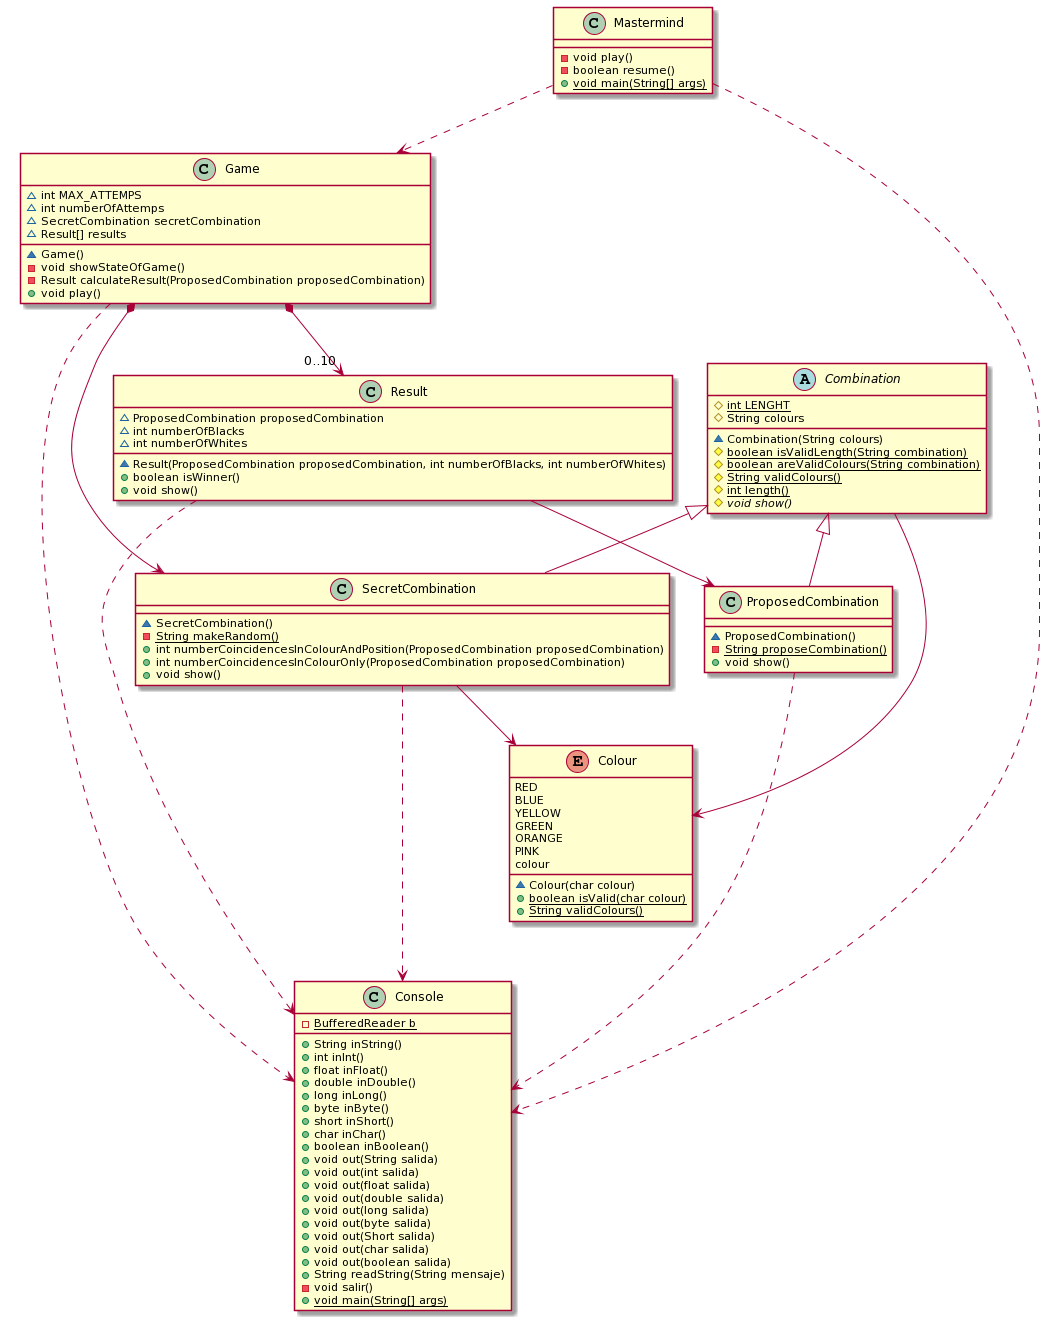
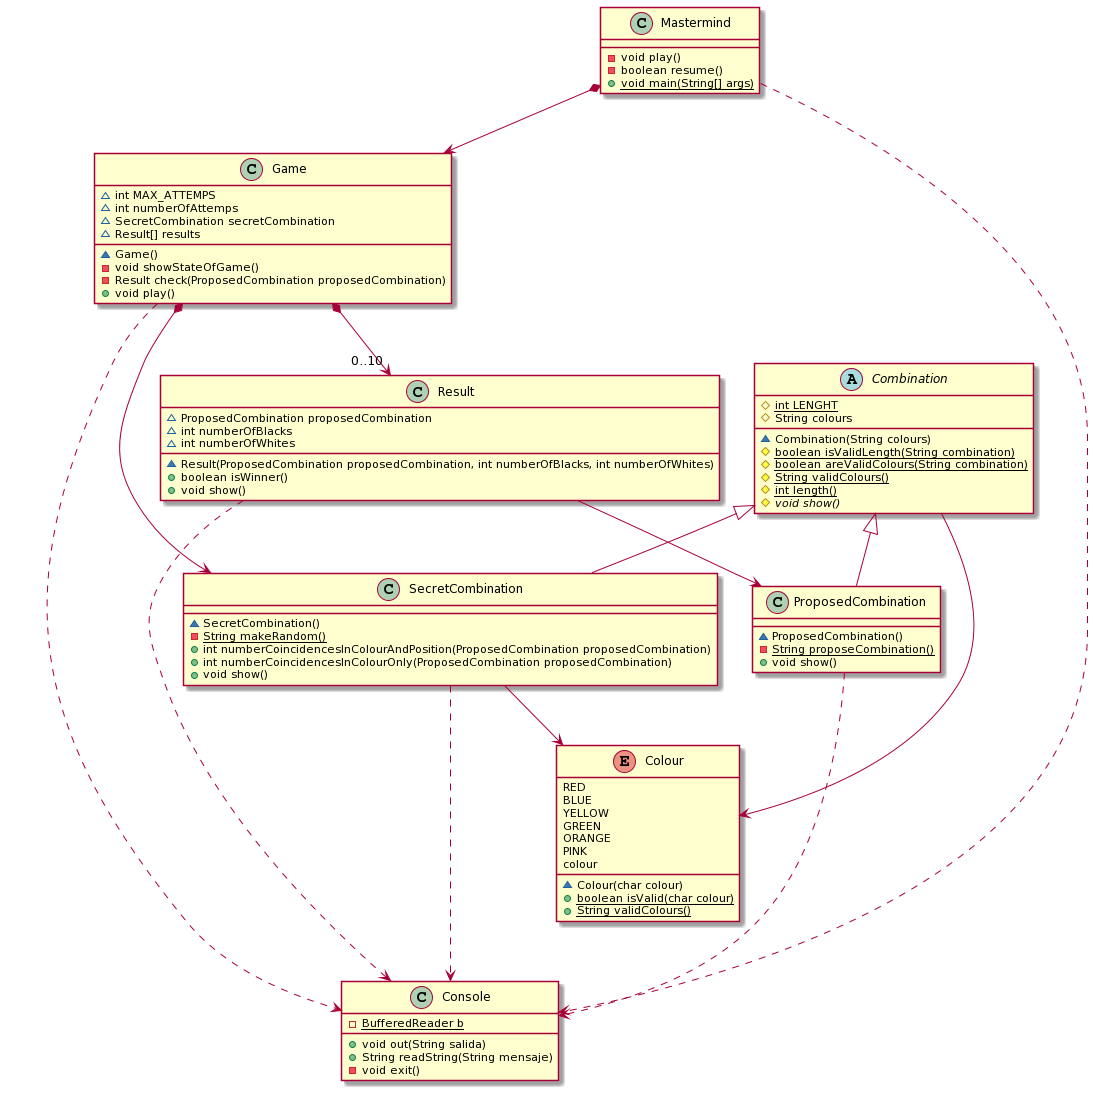
Add files via upload

diff --git a/mastermind-herencia/Game.java b/mastermind-herencia/Game.java
@@ -22,7 +22,7 @@ class Game {
 		}
 	}
 	
-	private Result calculateResult(ProposedCombination proposedCombination) {
+	private Result check(ProposedCombination proposedCombination) {
 		int numberOfBlacks=secretCombination.numberCoincidencesInColourAndPosition(proposedCombination);
 		int numberOfWhites=secretCombination.numberCoincidencesInColourOnly(proposedCombination);
 		return new Result(proposedCombination,numberOfBlacks,numberOfWhites);
@@ -34,7 +34,7 @@ class Game {
 		do {
 			this.showStateOfGame();
 			ProposedCombination proposedCombination=new ProposedCombination();
-			Result result=this.calculateResult(proposedCombination);
+			Result result=this.check(proposedCombination);
 			isWinner=result.isWinner();
 			results[numberOfAttemps]=result;
 			this.numberOfAttemps++;

diff --git a/mastermind-herencia/Colour.java b/mastermind-herencia/Colour.java
@@ -14,12 +14,10 @@ public enum Colour {
 		this.colour=colour;
 	}
 	
-	public static boolean isValid(char colour) {
-		
+	public static boolean isValid(char colour) {		
 		for (Colour c : Colour.values()) {
 			if (c.colour == colour) return true;
-		}
-		
+		}		
 		return false;
 	}
 	
@@ -28,9 +26,7 @@ public enum Colour {
 		for (Colour c : Colour.values()) {
 			validColours+=c.colour;
 		}
-		return validColours;
-		
+		return validColours;		
 	}
-
 }
 	   				

diff --git a/mastermind-herencia/Mastermind.java b/mastermind-herencia/Mastermind.java
@@ -1,8 +1,8 @@
 package mastermind;
 
-class Mastermind {
-
-	 private void play() {
+class Mastermind {	
+	
+	private void play() {
 		 do {
 			 new Console().out("\n---- MASTERMIND -----\n");
 			 new Game().play();
